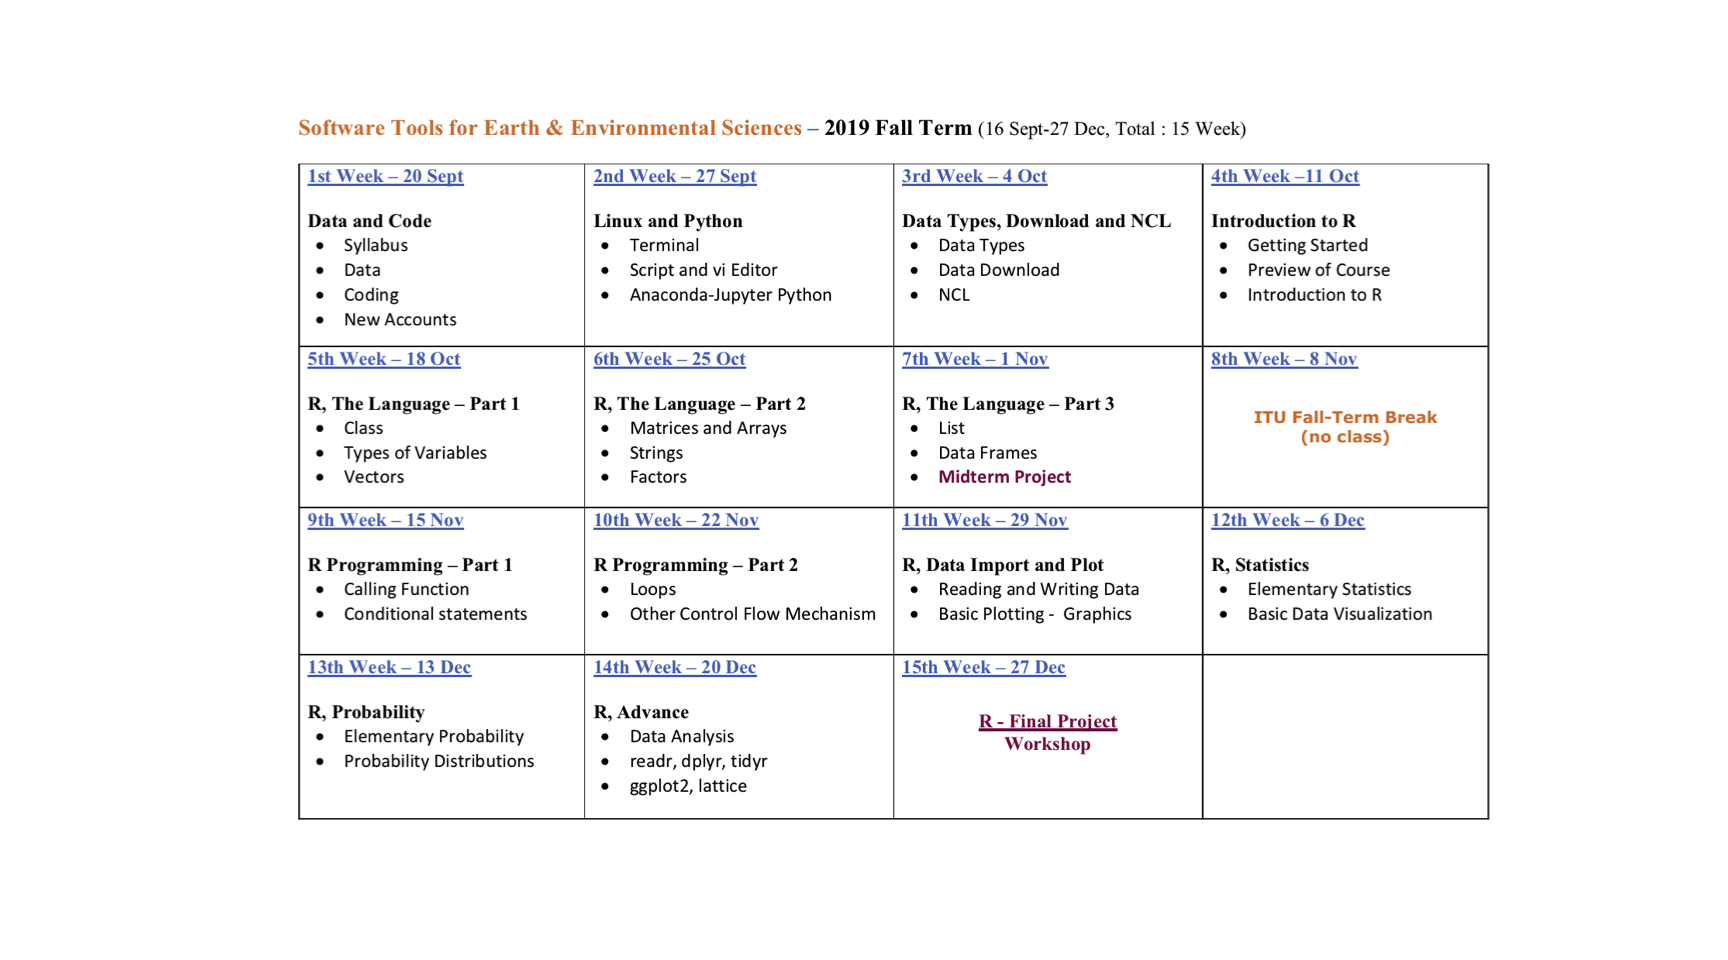
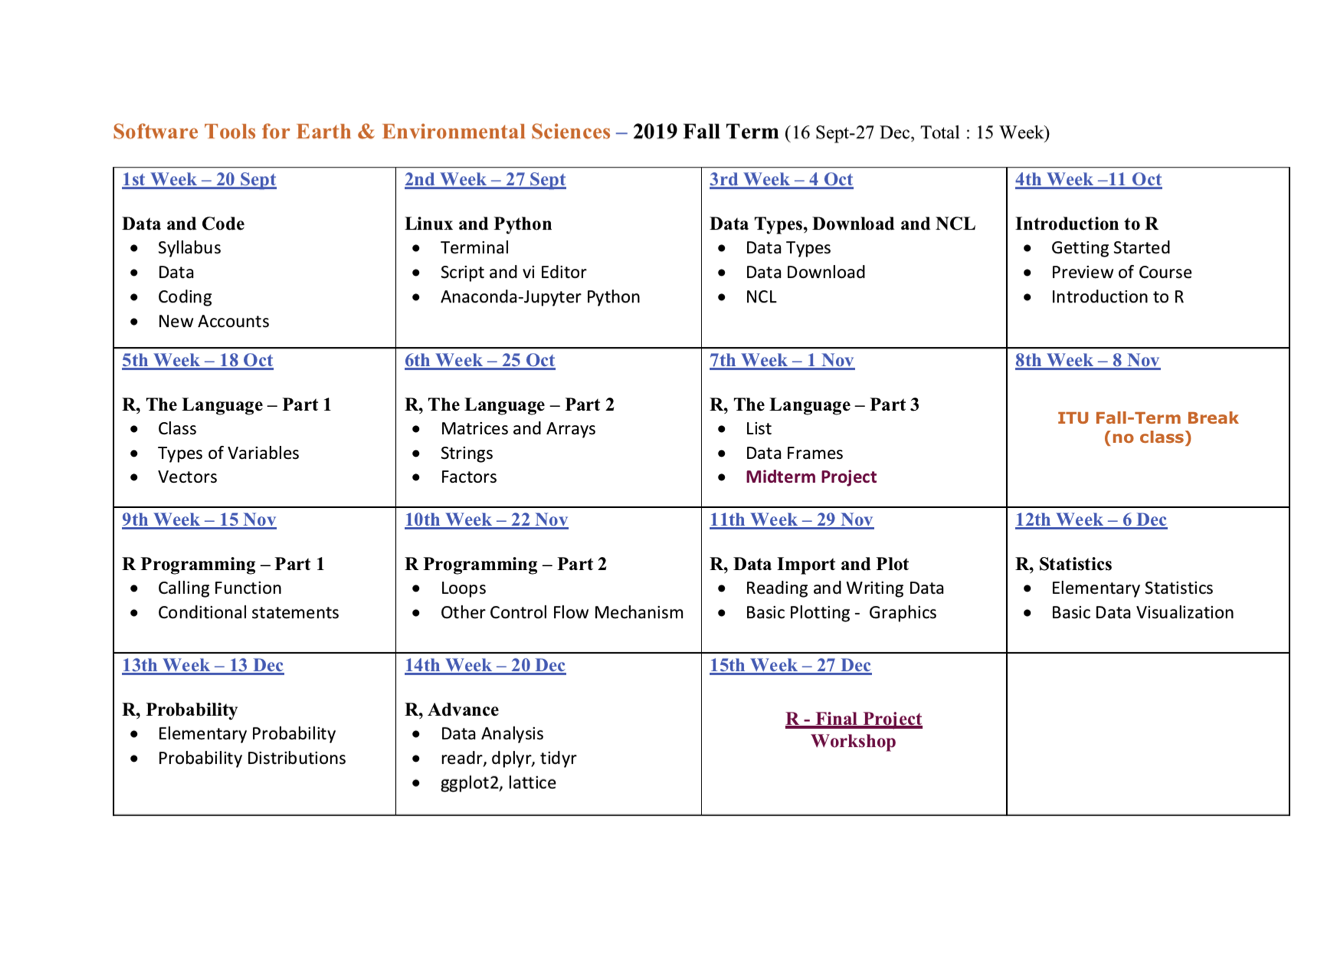
sly

diff --git a/docs/syllabus.html b/docs/syllabus.html
@@ -11,7 +11,7 @@
 
 
 
-<title>Syllabus</title>
+<title></title>
 
 <script src="site_libs/jquery-1.11.3/jquery.min.js"></script>
 <meta name="viewport" content="width=device-width, initial-scale=1" />
@@ -310,7 +310,6 @@ $(document).ready(function () {
 
 
 
-<h1 class="title toc-ignore">Syllabus</h1>
 
 </div>
 
@@ -318,10 +317,7 @@ $(document).ready(function () {
 <hr />
 <p><strong>Extended Syllabus - </strong> <a href="https://web.itu.edu.tr/~tokerem/Software_Tools_Syllabus.pdf">PDF</a></p>
 <hr />
-<div class="figure">
-<img src="Software_Tools_for_Earth_and_Environmental_Science_Syllabus.png" />
-
-</div>
+<p><img src="syllabus_files/figure-html/unnamed-chunk-2-1.png" width="672" /></p>
 
 
 
